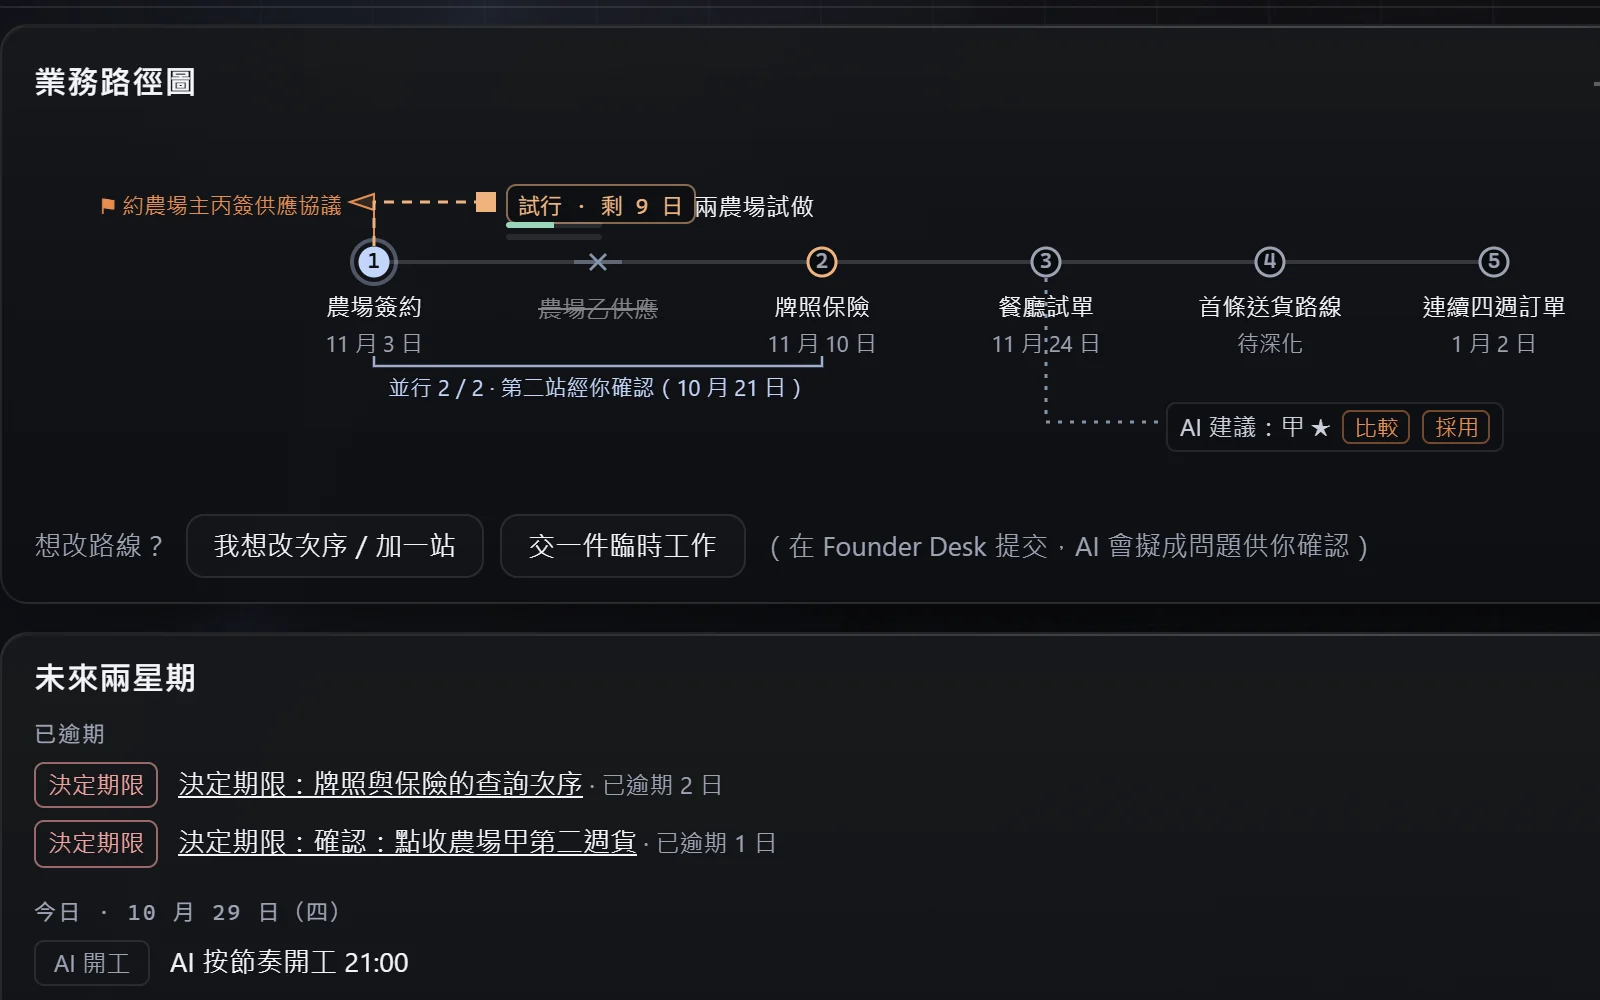
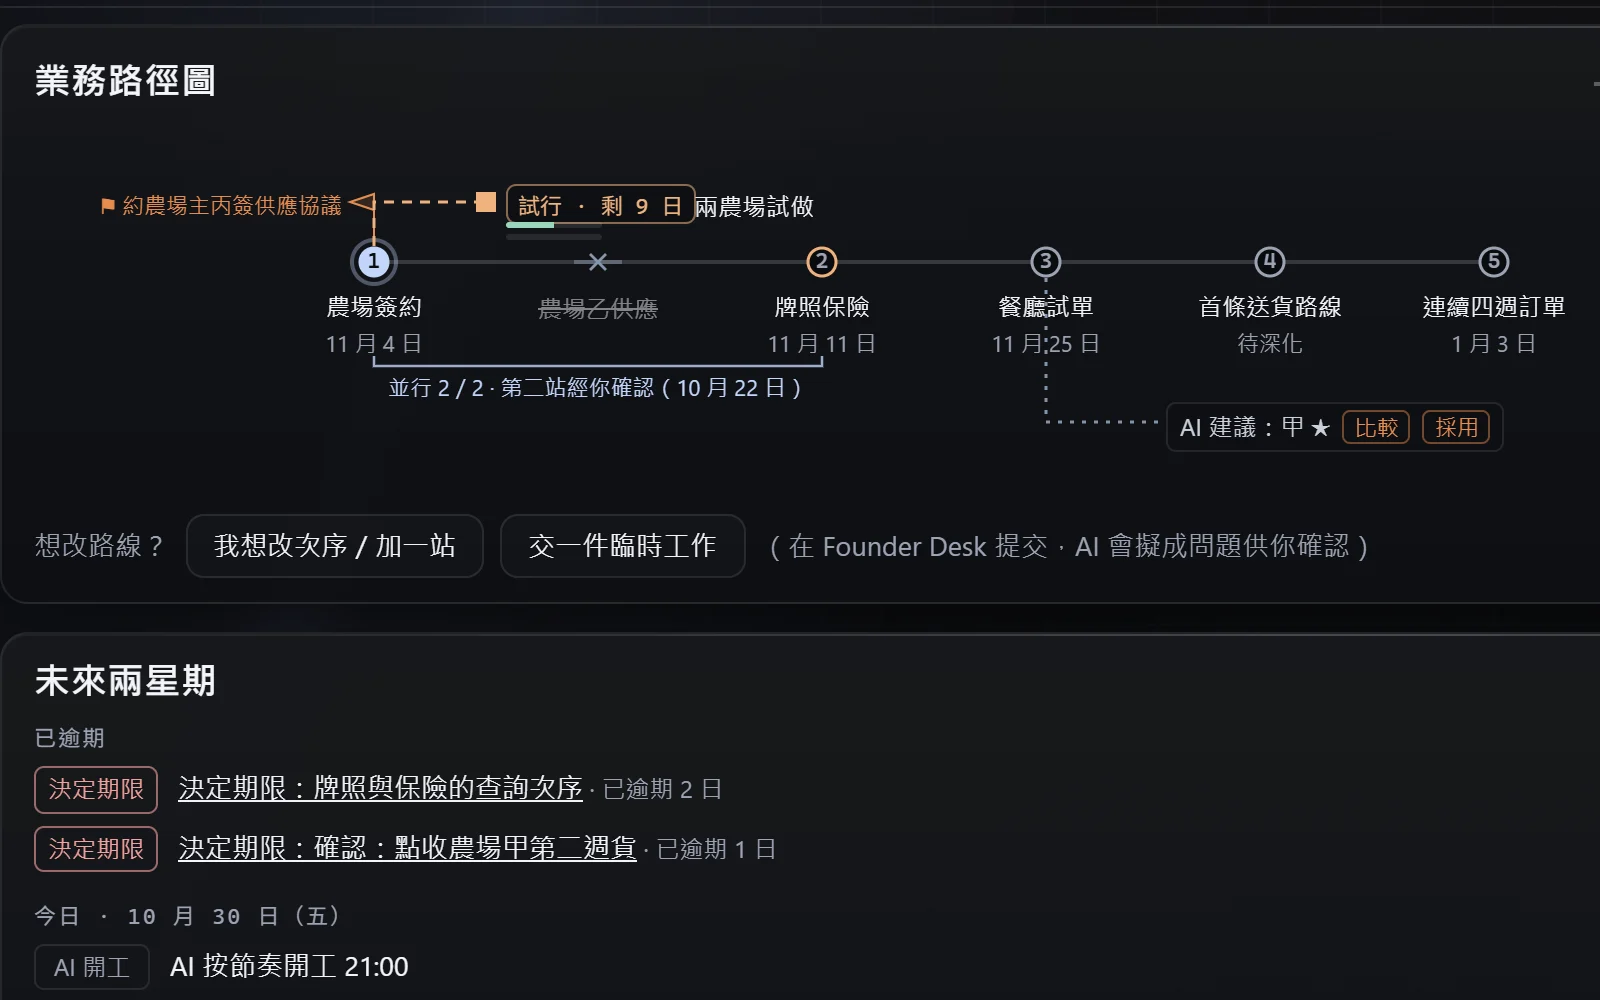
介紹頁產品截圖換成 0.31（陶土 AI 團隊）；拍攝紀錄搬離公開網站

diff --git a/docs/介紹頁拍攝紀錄.md b/docs/介紹頁拍攝紀錄.md
@@ -1,0 +1,33 @@
+# 介紹頁拍攝紀錄（site/assets）
+
+> 內部紀錄，不放在 `site/`（`site/` 會經 GitHub Pages 公開）。2026-10-30 由 `site/assets/拍攝紀錄.md` 搬來。
+
+## 產品截圖
+
+只記來源與時間，不記內容。全部截圖來自正式程式 0.31 開的**隔離示範實例**（虛構公司「從田間到餐桌」，示範資料由示範種子程式建立，放在拍攝會話自己的暫存資料夾）與一個全新空白安裝；沒有使用真實公司實例或模擬實例。拍攝工具：本機 headless Chrome，視窗 1440×900。10 月 30 日以 0.31 全部重拍（取代 10 月 29 日 0.28／0.29 版本）。
+
+| 檔案 | 實例 | 分頁 | 闊度 | 範圍 | 時間 |
+|---|---|---|---|---|---|
+| overview-1440.webp | 示範實例（埠 4790，閒置，程式 0.31） | 公司現況 | 1440 | 首屏 1440×900 | 10 月 30 日 14:27 |
+| feat-pending.webp | 示範實例（埠 4790，程式 0.31） | 待決事項 | 1440 | 局部，兩倍清晰度 | 10 月 30 日 14:27 |
+| feat-inputs.webp | 示範實例（埠 4790，程式 0.31） | 輸入 | 1440 | 局部，兩倍清晰度 | 10 月 30 日 14:27 |
+| feat-company.webp | 示範實例（埠 4790，程式 0.31） | 公司概覽（校對模式，三題問題卡；避開「已連接 示範設定」一行） | 1440 | 局部，兩倍清晰度 | 10 月 30 日 14:27 |
+| feat-overview.webp | 示範實例（埠 4790，閒置，程式 0.31） | 公司現況（運作環） | 1440 | 局部，兩倍清晰度 | 10 月 30 日 14:27 |
+| feat-brain.webp | 示範實例（埠 4790，程式 0.31） | 生意大腦 | 1440 | 局部，兩倍清晰度 | 10 月 30 日 14:27 |
+| feat-path.webp | 示範實例（埠 4790，程式 0.31） | 業務路徑 | 1440 | 局部，兩倍清晰度 | 10 月 30 日 14:27 |
+| feat-team.webp | 示範實例（埠 4790，程式 0.31） | 團隊（角色卡） | 1440 | 局部，兩倍清晰度 | 10 月 30 日 14:27 |
+| feat-log.webp | 示範實例（埠 4790，程式 0.31） | 紀錄 | 1440 | 局部，兩倍清晰度 | 10 月 30 日 14:27 |
+| feat-system.webp | 示範實例（埠 4790，程式 0.31） | 系統（「最近 AI 工作」一欄；避開「已設定：示範設定」） | 1440 | 局部，兩倍清晰度 | 10 月 30 日 14:27 |
+| step-install.webp | 全新安裝實例（埠 4791，空白資料，程式 0.31） | 首頁（AI 未設定與交資料） | 1440 | 頂部 1440×660 | 10 月 30 日 14:27 |
+| step-setup.webp | 全新安裝實例（埠 4791，空白資料，程式 0.31） | 系統 | 1440 | 頂部 1440×660 | 10 月 30 日 14:27 |
+| step-intake.webp | 全新安裝實例（埠 4791，空白資料，程式 0.31） | 公司概覽（交資料） | 1440 | 局部 1440×560 | 10 月 30 日 14:27 |
+
+示範實例拍攝前的兩項調整（只改拍攝用的暫存示範資料，不改正式程式）：示範種子內一項「進行中」的示意工作改為已結束，令運作環是閒置畫面（沒有 AI 真實工作，所以不可拍亮起的畫面）；另寫入一份只供示範的 AI 設定（名稱「示範設定」，指向測試用假 AI，從未啟動），令畫面不出現「AI 未設定」卡。
+
+0.31 新元素入鏡情況：運作環的陶土門口、工作枱、統籌成員在 `overview-1440`、`feat-overview` 入鏡（閒置，所以冇細成員）；Founder Desk「今日要做的事」暗淡背景與生意大腦分頁頁頭成員在現有框位內不出現（示範資料已過第一星期；生意大腦截圖是總覽）。
+
+## 插圖（不是產品畫面）
+
+頁面現用插圖全部是陶土 AI 團隊（`hero-team.webp`、`clay-*.webp`），以 Codex 內建生圖功能生成，不含文字、真人或品牌；原圖、生圖指示與用途登記見 `docs/plan/brand-characters-spec.md` 第 9 節。生圖提示只描述構圖、角色與色調，沒有使用任何真實公司資料。
+
+`hero-main.webp`、`three-things.webp`、`evidence-steps.webp` 是 10 月 29 日第一批插圖，頁面已不引用。
